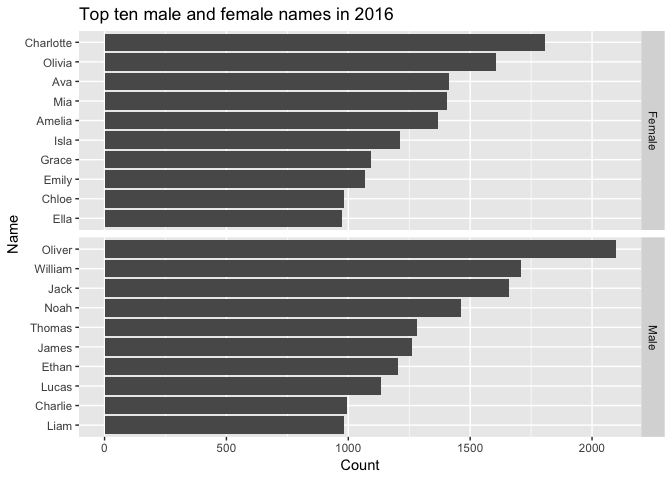
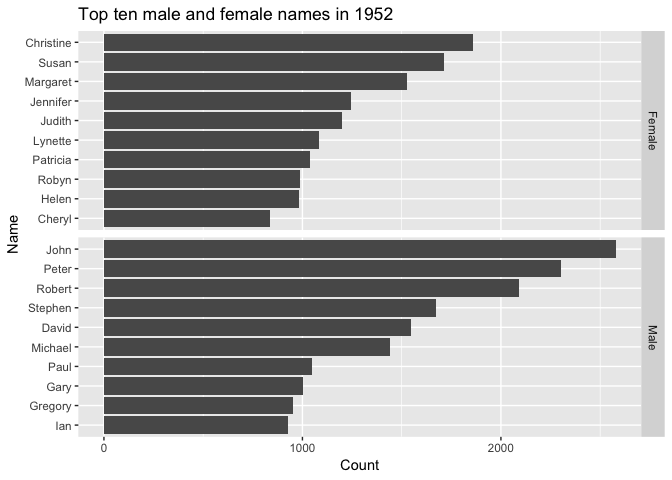
use 1952 data

diff --git a/README.md b/README.md
@@ -40,8 +40,8 @@ library(dplyr)
 #> 
 #>     intersect, setdiff, setequal, union
 
-ozbabynames_2016_top_10 <- ozbabynames %>%
-  filter(year == 2016) %>%
+ozbabynames_1952_top_10 <- ozbabynames %>%
+  filter(year == 1952) %>%
   group_by(sex, name) %>%
   summarise(count = sum(count)) %>%
   arrange(-count) %>%
@@ -49,7 +49,7 @@ ozbabynames_2016_top_10 <- ozbabynames %>%
   ungroup()
 #> Selecting by count
 
-ggplot(ozbabynames_2016_top_10,
+ggplot(ozbabynames_1952_top_10,
        aes(x = reorder(name, count),
            y = count,
            group = sex)) +
@@ -58,7 +58,7 @@ ggplot(ozbabynames_2016_top_10,
              scales = "free_y") +
   coord_flip() +
   ylab("Count") + xlab("Name") +
-  ggtitle("Top ten male and female names in 2016")
+  ggtitle("Top ten male and female names in 1952")
 ```
 
 <img src="man/figures/README-example-plot-1.png" width="100%" />
